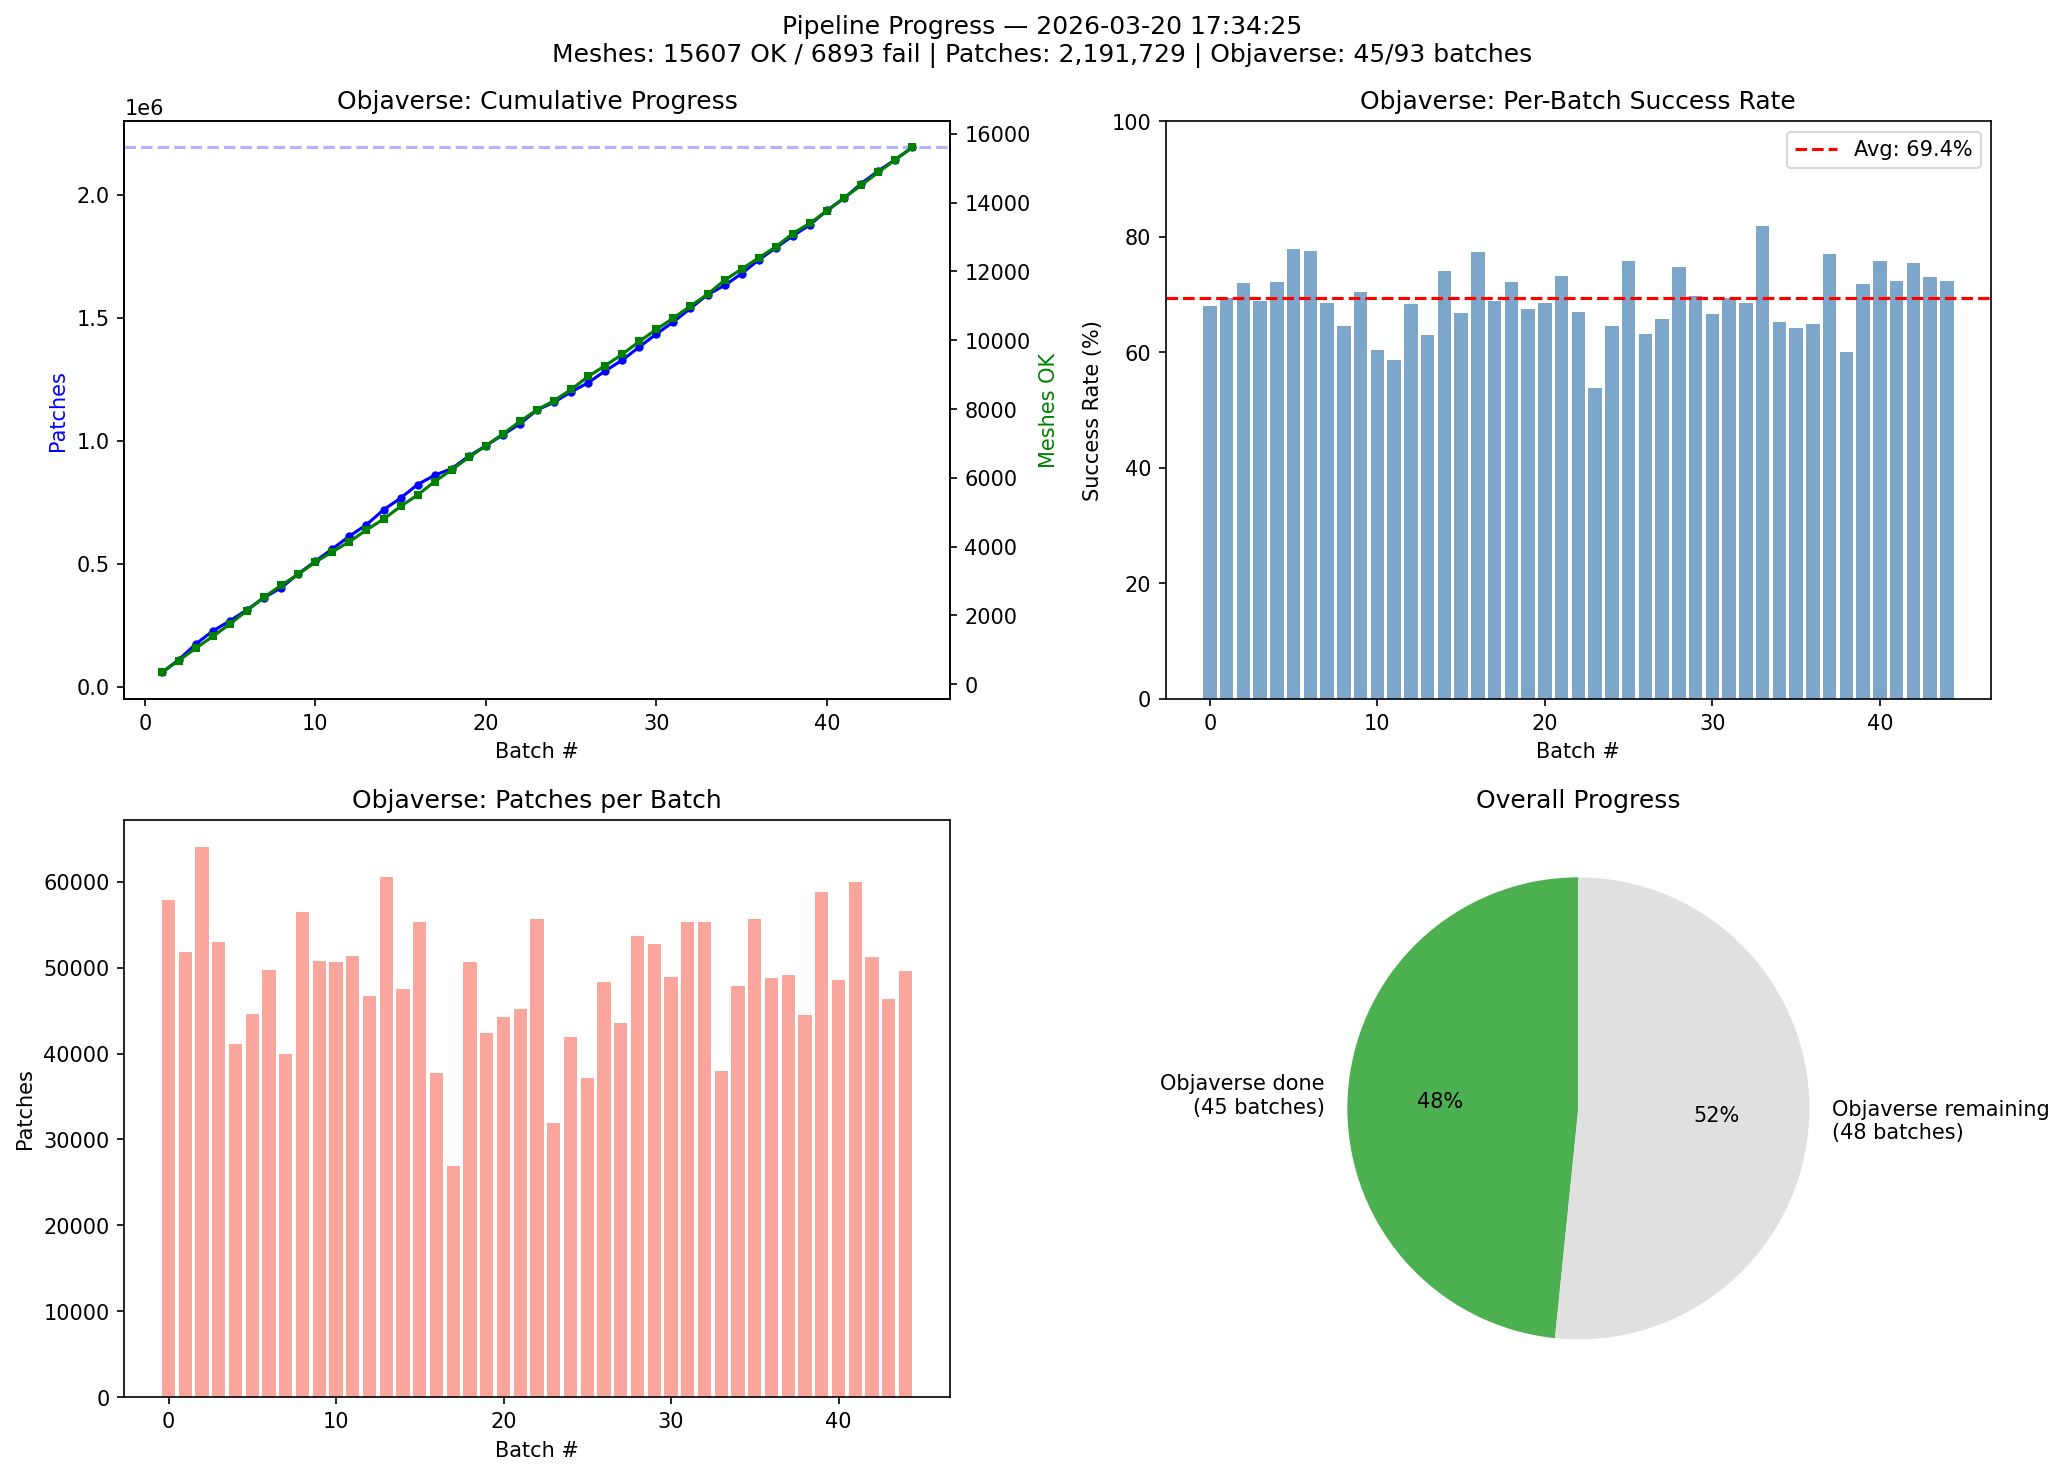
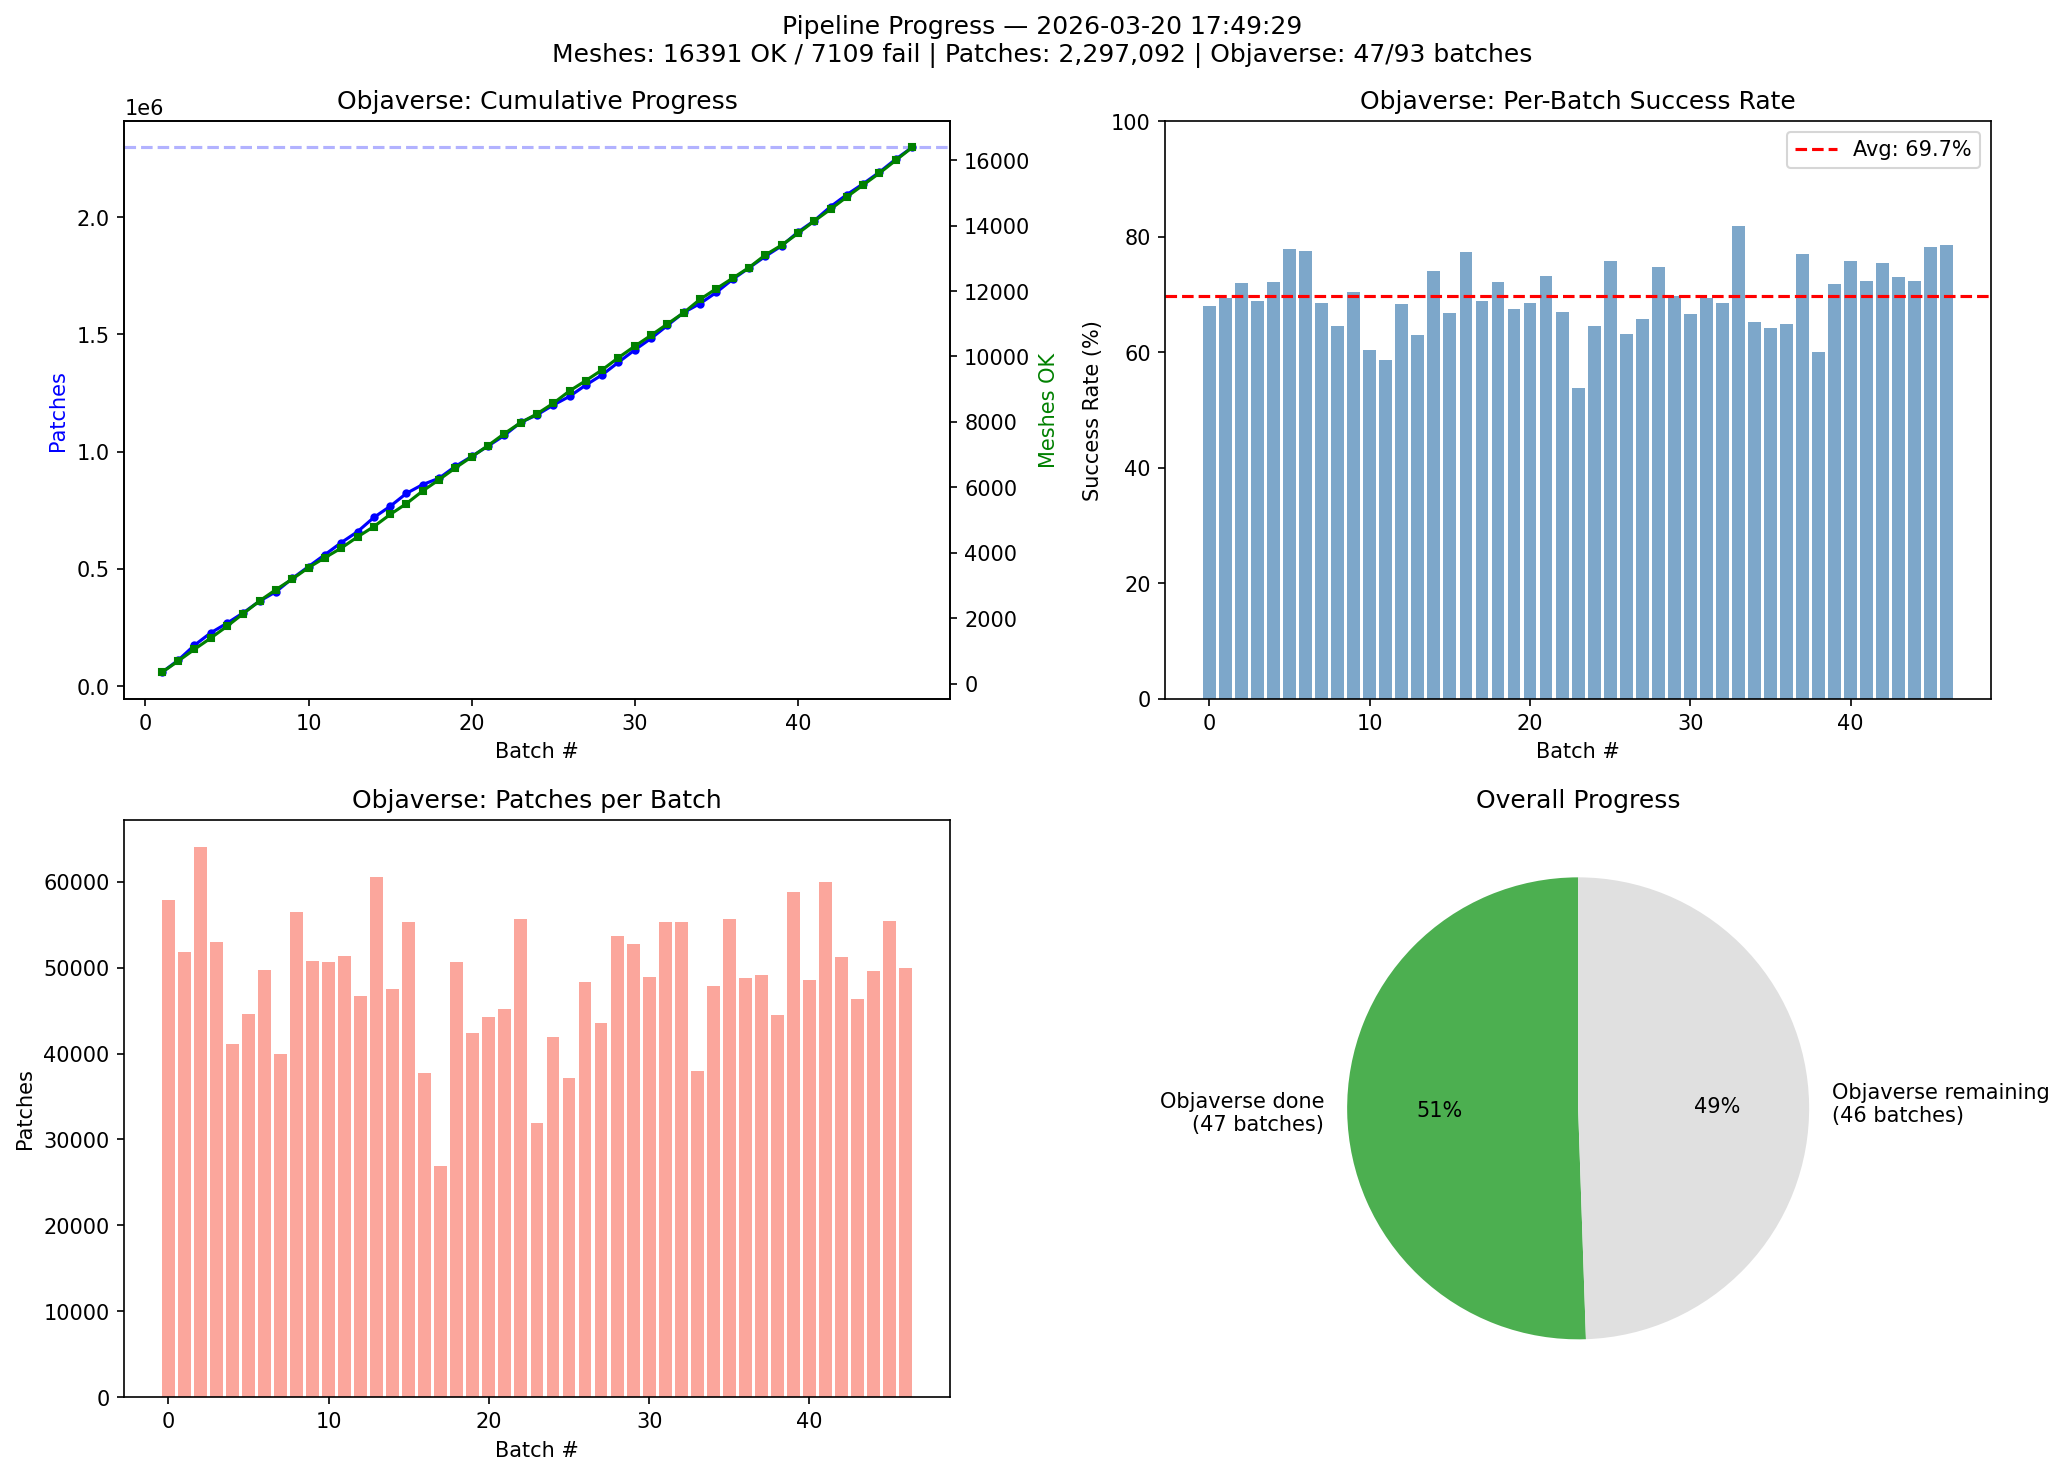
chore: update pipeline monitoring (batch_047 completed)
- Objaverse: 47/93 batches, 16391 OK / 7109 fail
- Patches: 2,297,092

diff --git a/results/dataset-pipeline/REPORT.md b/results/dataset-pipeline/REPORT.md
@@ -1,17 +1,17 @@
 # Dataset Pipeline Progress Report
 
-**Generated:** 2026-03-20 17:34:25
+**Generated:** 2026-03-20 17:49:29
 
 ## Overall
-- Total meshes processed: 15607 OK / 6893 fail
-- Total patches: 2,191,729
+- Total meshes processed: 16391 OK / 7109 fail
+- Total patches: 2,297,092
 
 ## Objaverse-LVIS (Phase 1)
-- Batches: 45 / 93 completed
-- Meshes: 15607 OK / 6893 fail
-- Success rate: 69.4%
-- Patches: 2,191,729
-- Avg patches/mesh: 140.4
+- Batches: 47 / 93 completed
+- Meshes: 16391 OK / 7109 fail
+- Success rate: 69.7%
+- Patches: 2,297,092
+- Avg patches/mesh: 140.1
 
 ## ShapeNet (Phase 2)
 - Batches: 0 completed
